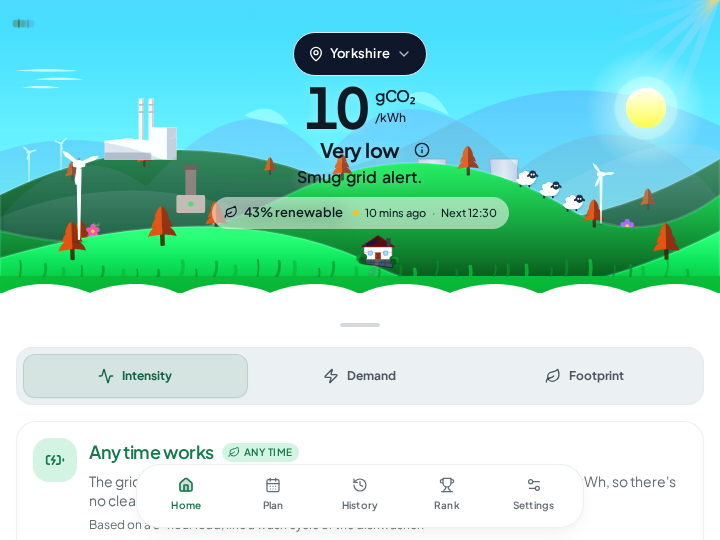
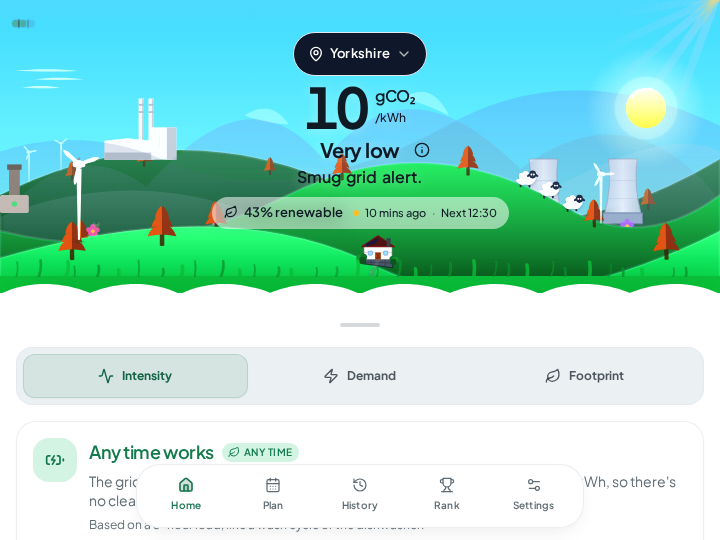
fix(scene): move biomass stacks, cooling towers and offshore turbines out of the hero column
At 720x540 the biomass stack at x 364 sat under the band label. Stacks move to
x 8 and 376, cooling towers to 302 and 346, and the offshore turbines to 70, 304
and 362, all exported. A new unit test checks every tall prop (gas plant,
biomass, cooling towers, offshore turbines, sheep) against TURBINE_HERO_SAFE_X.

diff --git a/src/lib/turbineLayout.test.ts b/src/lib/turbineLayout.test.ts
@@ -52,4 +52,26 @@ describe('hero band is clear of scene props (#242 Design review)', () => {
     const { HERO_SAFE_X } = await import('@/components/scene/Sheep');
     expect(TURBINE_HERO_SAFE_X).toEqual(HERO_SAFE_X);
   });
+
+  it('keeps EVERY tall prop out of the hero text column', async () => {
+    const { gasPlantGeometry, GAS_PLANT_HALL } = await import('@/lib/gasPlant');
+    const { BIOMASS_STACK_X } = await import('@/components/scene/layers/SceneAdvancedLayer');
+    const { NUCLEAR_TOWER_X } = await import('@/components/scene/layers/SceneGenerationOverlay');
+    const { OFFSHORE_WIND_X } = await import('@/components/scene/OffshoreWind');
+    const { SHEEP_SPOTS } = await import('@/components/scene/Sheep');
+    const g = gasPlantGeometry();
+    // [name, left edge, right edge] in scene x.
+    const props: [string, number, number][] = [
+      ['gas plant', g.x, g.x + GAS_PLANT_HALL.w],
+      ...BIOMASS_STACK_X.map((x): [string, number, number] => ['biomass stack', x - 4, x + 4]),
+      ...NUCLEAR_TOWER_X.map((x): [string, number, number] => ['cooling tower', x - 10, x + 10]),
+      // Offshore rotors are 25 units at scale 0.25-0.35, so about 9 units across.
+      ...OFFSHORE_WIND_X.map((x): [string, number, number] => ['offshore turbine', x - 9, x + 9]),
+      // Sheep: feet x, as in Sheep.test (the flock faces east of the band).
+      ...SHEEP_SPOTS.map((s): [string, number, number] => ['sheep', s.x, s.x]),
+    ];
+    const { min, max } = TURBINE_HERO_SAFE_X;
+    for (const [name, a, b] of props)
+      expect(b <= min || a >= max, `${name} at ${a}-${b} overlaps ${min}-${max}`).toBe(true);
+  });
 });

diff --git a/src/components/scene/layers/SceneGenerationOverlay.tsx b/src/components/scene/layers/SceneGenerationOverlay.tsx
@@ -120,12 +120,16 @@ export function SceneGenerationOverlay({
               aria-hidden="true"
             >
               <NuclearCoolingTower
-                x={280}
+                x={NUCLEAR_TOWER_X[0]}
                 steamIntensity={nuclearPercentage / 100}
                 isNight={isNight}
               />
               {nuclearPercentage > 15 && (
-                <NuclearCoolingTower x={240} steamIntensity={0.5} isNight={isNight} />
+                <NuclearCoolingTower
+                  x={NUCLEAR_TOWER_X[1]}
+                  steamIntensity={0.5}
+                  isNight={isNight}
+                />
               )}
             </svg>
           </div>
@@ -170,6 +174,9 @@ export function SceneGenerationOverlay({
     </>
   );
 }
+
+/** Nuclear cooling towers (scene x): east of the hero text column. */
+export const NUCLEAR_TOWER_X = [302, 346] as const;
 
 interface TurbineFieldProps {
   turbineLayout: TurbineSlot[];

diff --git a/src/components/scene/OffshoreWind.tsx b/src/components/scene/OffshoreWind.tsx
@@ -7,6 +7,9 @@ interface OffshoreWindProps {
   weatherKnown?: boolean; // Unknown weather → shared idle speed
 }
 
+/** Distant offshore turbines (scene x), outside the hero text column. */
+export const OFFSHORE_WIND_X = [70, 304, 362] as const;
+
 export function OffshoreWind({
   count = 3,
   windSpeed = 10,
@@ -27,7 +30,7 @@ export function OffshoreWind({
     >
       {/* Offshore turbines spread across horizon */}
       {Array.from({ length: count }).map((_, i) => {
-        const x = 80 + i * 100; // Spread across background
+        const x = OFFSHORE_WIND_X[i % OFFSHORE_WIND_X.length]; // Outside the hero column
         const scale = 0.25 + i * 0.05; // Slight size variation for depth
 
         return (

diff --git a/src/components/scene/layers/SceneAdvancedLayer.tsx b/src/components/scene/layers/SceneAdvancedLayer.tsx
@@ -9,7 +9,8 @@ import { BiomassSmoke } from '../BiomassSmoke';
 import { SCENE_SILHOUETTE_ASPECT } from '@/lib/sceneScaleBible';
 
 /** Biomass stacks sit either side of the hero text column (scene x 112 to 288). */
-export const BIOMASS_STACK_X = [106, 364] as const;
+/** Biomass stacks (scene x), both outside the hero text column at every size. */
+export const BIOMASS_STACK_X = [8, 376] as const;
 
 export interface SceneAdvancedLayerProps {
   sceneConfig: SceneVisualConfig;
